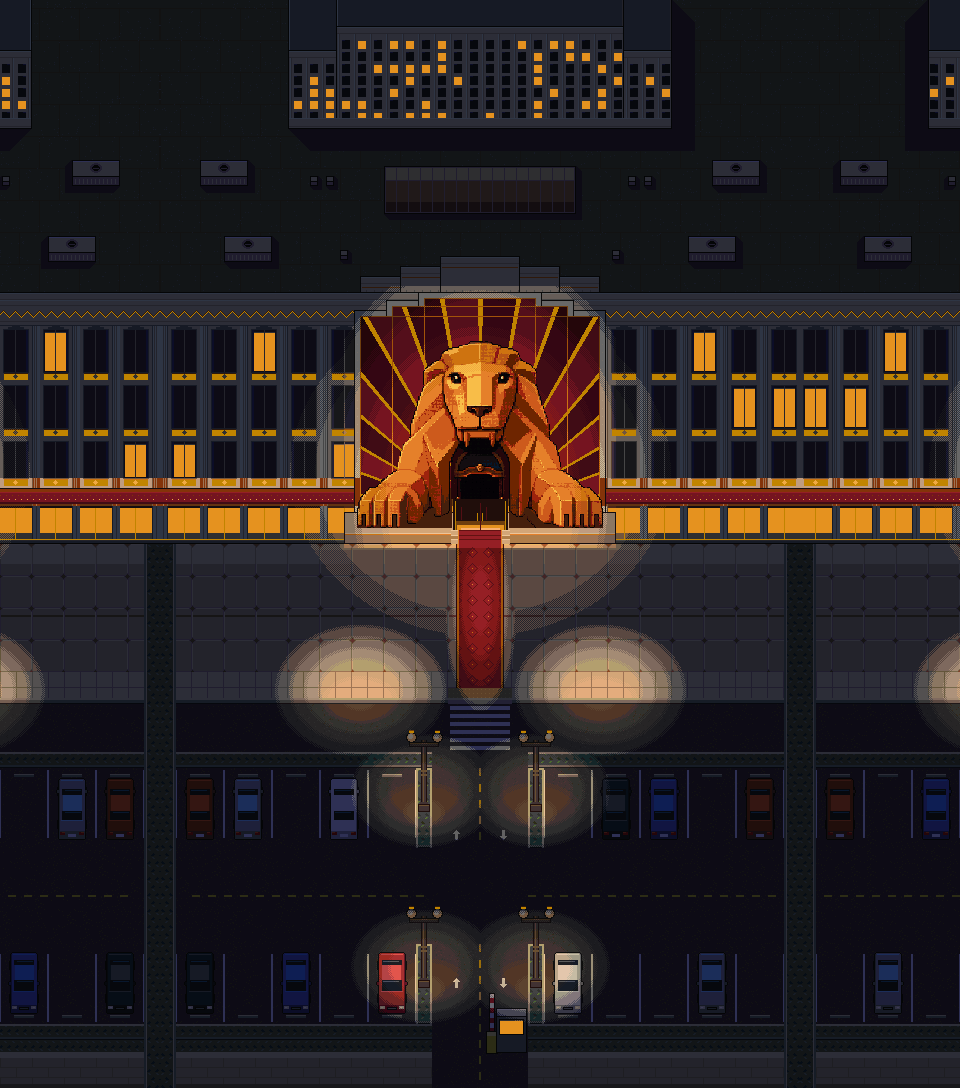
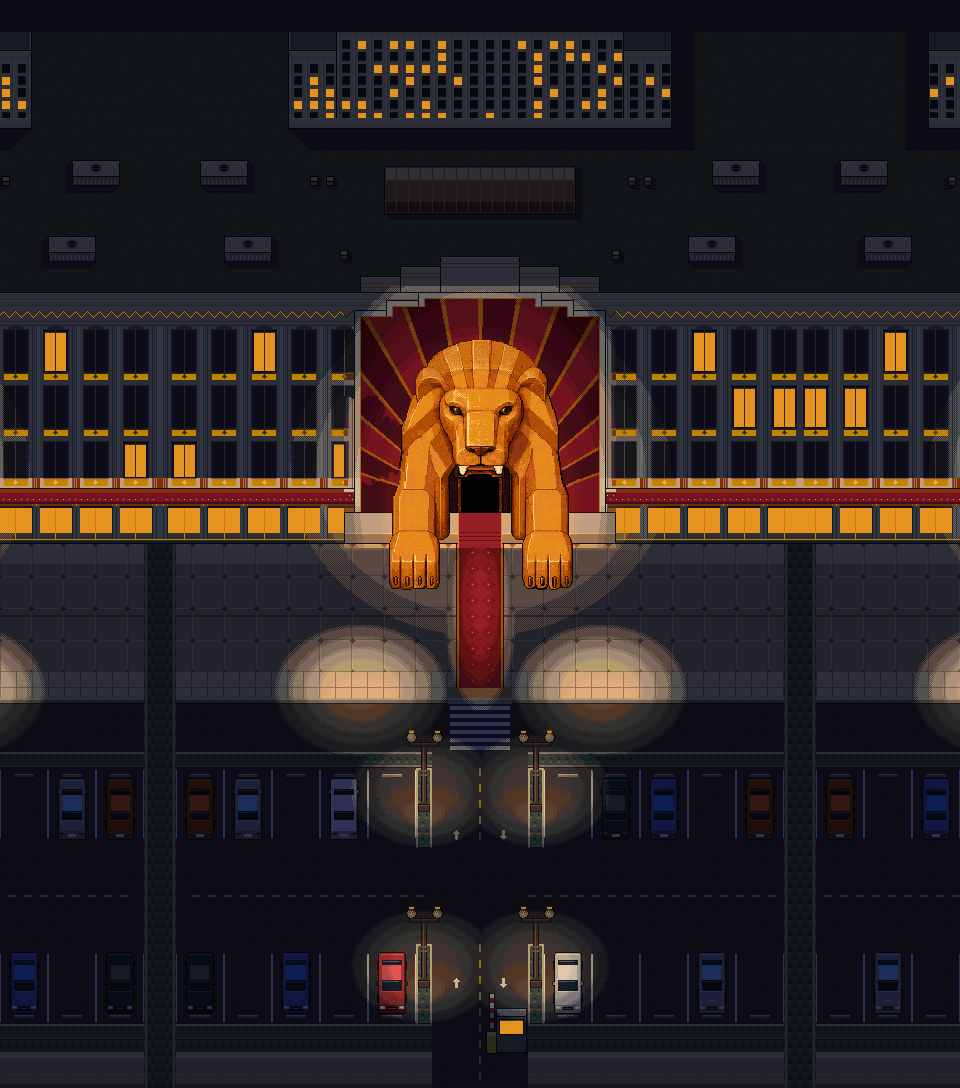
feat: hero con la fachada nueva y el leon de pie de Samuel
El parqueo del juego usa ahora parking_lot_room_deco_manual.tscn: la
fachada pintada a mano por Samuel, con el leon de pie (las patas
delanteras en la acera) y el cartel de Las Vegas dentro del mismo PNG.

- render_parking_layers.gd toma la escena del RoomDefinition del parqueo
  (resources/rooms/parking_lot.tres) en lugar de una ruta fija, asi que
  sigue a la fachada que use el juego.
- build_hero.py: como ya no hay nodos VegasSign ni Pylon, la pasada del
  cartel sale vacia. En ese caso busca parking_vegas_sign_deco.png
  pegado tal cual en la fachada (esta en 13, 303), lo pasa a su capa
  para que conserve el parallax y rellena el hueco: fuera del portal con
  la fachada deco, que es el mismo edificio pixel a pixel; dentro, con el
  reflejo del portal. Las coordenadas de luz del cartel (postes, centro
  de la persecucion de bombillas) se corren con el.
- El leon usa los mismos naranjas que las ventanas: dentro del portal ya
  no se encienden como ventanas, y la marquesina no busca bombillas en
  el portal. Las patas que bajan a la plaza reciben los focos del leon.
  Bombillas del cartel y de la fachada se etiquetan por separado, porque
  el cartel tapa un tramo de la marquesina.
- site.js: la boca del zoom pasa de y 487 a 495, el centro del hueco
  negro de la puerta del leon nuevo (x 301-339, y 478-512).
- Imagenes de redes (og-es, og-en) regeneradas sobre el hero nuevo, con
  el mismo encuadre.

Changed region(s): [[0.3438, 0.2812, 0.6562, 0.5625], [0.3438, 0.0, 0.6562, 0.0312]]

diff --git a/assets/js/site.js b/assets/js/site.js
@@ -36,7 +36,9 @@
 
 		// Coordenadas de arte (pixeles del juego). La capa de fondo es 160 px mas ancha por
 		// cada lado; el resto empieza en x = 0.
-		const ART = { w: 640, h: 1088, margin: 160, mouthX: 320, mouthY: 487, facadeTop: 290 };
+		// La boca es el hueco negro de la puerta, entre los colmillos y la alfombra roja: en el
+		// leon de pie de Samuel va de x 301 a 339 y de y 478 a 512.
+		const ART = { w: 640, h: 1088, margin: 160, mouthX: 320, mouthY: 495, facadeTop: 290 };
 		const base = root.dataset.art || "/assets/img/hero/";
 		const domImg = (cls) => root.querySelector(cls);
 		const layers = {

diff --git a/tools/build_hero.py b/tools/build_hero.py
@@ -12,6 +12,12 @@ resolucion nativa, fondo transparente). Salida en `assets/img/hero/`:
 Todo color de salida se ajusta a `tools/art/master_palette.gpl` del juego: la noche no mete
 colores nuevos, solo elige otros de la misma paleta.
 
+La fachada pintada a mano por Samuel trae el cartel de Las Vegas dentro del mismo PNG (ya no es
+un sprite suelto). Si la capa del cartel llega vacia, se busca el cartel del juego
+(`parking_vegas_sign_deco.png`) pegado en la fachada, se pasa a su capa para que siga teniendo
+parallax, y el hueco que deja se rellena: fuera del portal con la fachada deco, que es el mismo
+edificio; dentro, con el reflejo del portal, que es simetrico.
+
 Uso:
   python tools/build_hero.py <carpeta_capas> <ruta_juego>
 """
@@ -37,6 +43,15 @@ AMBIENT = np.array([0.20, 0.23, 0.40])
 WARM = np.array([1.00, 0.90, 0.74])
 
 BAYER4 = np.array([[0, 8, 2, 10], [12, 4, 14, 6], [3, 11, 1, 9], [15, 7, 13, 5]]) / 16.0
+
+# El cartel de Las Vegas y la fachada deco sin cartel pintado, en el repo del juego.
+SIGN_SPRITE = "assets/sprites/props/parking_vegas_sign_deco.png"
+FACADE_DECO = "assets/sprites/props/casino_entrance_facade_deco.png"
+# Esquina del cartel cuando era un sprite suelto de la escena deco. Las coordenadas de luz del
+# cartel (postes, centro de la persecucion) se midieron ahi y se corren con el cartel.
+SIGN_REF = (0, 262)
+# Columnas del portal de la fachada: dentro esta el leon, fuera las bahias de ventanas.
+PORTAL_X = (184, 456)
 
 
 def load_palette(game: Path) -> np.ndarray:
@@ -116,6 +131,61 @@ def grade(img: np.ndarray, light: np.ndarray, snapper: Snapper) -> np.ndarray:
     return out
 
 
+def find_sprite(layer: np.ndarray, sprite: np.ndarray) -> tuple[int, int] | None:
+    """Esquina donde `sprite` esta pegado tal cual (pixeles opacos identicos) en `layer`."""
+    opaque = sprite[..., 3] > 0
+    ys, xs = np.nonzero(opaque)
+    h, w = sprite.shape[:2]
+    rows, cols = layer.shape[0] - h + 1, layer.shape[1] - w + 1
+    if rows <= 0 or cols <= 0:
+        return None
+    # Criba con una muestra de pixeles; luego se comprueba el sprite entero.
+    hits = np.ones((rows, cols), dtype=bool)
+    for i in np.linspace(0, len(ys) - 1, 96).astype(int):
+        ty, tx = ys[i], xs[i]
+        hits &= np.all(layer[ty:ty + rows, tx:tx + cols] == sprite[ty, tx], axis=-1)
+        if not hits.any():
+            return None
+    for y, x in zip(*np.nonzero(hits)):
+        if np.all(layer[y:y + h, x:x + w][opaque] == sprite[opaque]):
+            return int(x), int(y)
+    return None
+
+
+def split_painted_sign(facade: np.ndarray, game: Path) -> tuple[np.ndarray, np.ndarray, tuple]:
+    """Saca el cartel pintado en la fachada a su propia capa y rellena el hueco.
+
+    Devuelve (fachada sin cartel, cartel, desplazamiento del cartel respecto de `SIGN_REF`).
+    """
+    sprite = np.asarray(Image.open(game / SIGN_SPRITE).convert("RGBA")).astype(np.float64)
+    at = find_sprite(facade, sprite)
+    if at is None:
+        sys.exit("build_hero: la capa del cartel esta vacia y el cartel no aparece en la fachada")
+    x0, y0 = at
+    h, w = sprite.shape[:2]
+    mask = np.zeros(facade.shape[:2], dtype=bool)
+    mask[y0:y0 + h, x0:x0 + w] = sprite[..., 3] > 0
+    sign = np.zeros_like(facade)
+    sign[mask] = facade[mask]
+
+    deco = np.zeros_like(facade)
+    d = np.asarray(Image.open(game / FACADE_DECO).convert("RGBA")).astype(np.float64)
+    d = d[:facade.shape[0], :facade.shape[1]]
+    deco[:d.shape[0], :d.shape[1]] = d
+    # Fuera del portal la deco tiene que ser la misma fachada; si no, el relleno inventaria.
+    wing = ~mask & (facade[..., 3] > 0) & (deco[..., 3] > 0)
+    wing[:, PORTAL_X[0]:PORTAL_X[1]] = False
+    same = np.all(facade[wing] == deco[wing], axis=-1).mean()
+    if same < 0.95:
+        sys.exit(f"build_hero: la fachada deco ya no coincide con la del juego ({same:.0%})")
+    fill = np.where((np.arange(facade.shape[1]) < PORTAL_X[0])[None, :, None],
+                    deco, facade[:, ::-1])
+    back = facade.copy()
+    back[mask] = fill[mask]
+    print(f"  cartel pintado en ({x0}, {y0}): {mask.sum()} px a su capa")
+    return back, sign, (x0 - SIGN_REF[0], y0 - SIGN_REF[1])
+
+
 def save(arr: np.ndarray, name: str) -> None:
     a = np.clip(arr, 0, 255).astype(np.uint8)
     a[a[..., 3] == 0] = 0
@@ -136,6 +206,9 @@ def main() -> None:
     sign = rgba(layers / "parking_sign.png")
     front = rgba(layers / "parking_front.png")
     h, w = ground.shape[:2]
+    sx, sy = 0, 0
+    if sign[..., 3].max() == 0:
+        facade, sign, (sx, sy) = split_painted_sign(facade, game)
 
     back = over(over(ground, lot), facade)
 
@@ -145,6 +218,11 @@ def main() -> None:
     # portal (x 184-456): fuera, un ovalo de luz sobre las ventanas se leia como un error.
     portal = np.zeros((h, w))
     portal[286:548, 184:456] = 1.0
+    # El leon de pie baja las patas a la plaza, por debajo del estrado: los mismos focos las
+    # alumbran, solo a ellas (pixeles de la fachada), no a las baldosas de alrededor.
+    paws = np.zeros((h, w), dtype=bool)
+    paws[548:600, PORTAL_X[0]:PORTAL_X[1]] = facade[548:600, PORTAL_X[0]:PORTAL_X[1], 3] > 0
+    portal[paws] = 1.0
     light = np.maximum(light, portal * np.clip(ellipse(h, w, 320, 500, 190, 260) * 1.8, 0, 1))
     # Derrame suave sobre la piedra de alrededor.
     light = np.maximum(light, ellipse(h, w, 320, 470, 230, 200) * 0.55)
@@ -166,6 +244,8 @@ def main() -> None:
     # La claraboya del tejado (y 150-230) queda apagada: encendida competia con el titulo, que
     # en la web cae justo encima.
     warm_panes[150:230, :] = False
+    # En el portal no hay ventanas: esos naranjas son del leon, que ya alumbran los focos.
+    warm_panes[286:600, PORTAL_X[0]:PORTAL_X[1]] = False
     light_back = light.copy()
     light_back[warm_panes] = 1.0
     # El interior de la boca del leon: negro calido, no azul.
@@ -177,8 +257,8 @@ def main() -> None:
     # --- Cartel ------------------------------------------------------------------------
     sign_light = np.where(sign[..., 3] > 0, 0.9, 0.0)
     # Los postes y el totem no se alumbran solos.
-    sign_light[500:, :] = np.minimum(sign_light[500:, :], 0.45)
-    sign_light[:, 540:] = np.minimum(sign_light[:, 540:], 0.55)
+    sign_light[500 + sy:, :] = np.minimum(sign_light[500 + sy:, :], 0.45)
+    sign_light[:, 540 + sx:] = np.minimum(sign_light[:, 540 + sx:], 0.55)
     night_sign = grade(sign, sign_light, snapper)
 
     # Bombillas: los puntos amarillo claro del borde del cartel.
@@ -194,9 +274,8 @@ def main() -> None:
     sub = back[band_rows]
     bright = (sub[..., :3].sum(-1) > 600) & (sub[..., 3] > 0)
     band_bulbs[band_rows] = bright
-    labels, n = ndimage.label(bulbs | band_bulbs)
-    print(f"  bombillas: {n}")
-    centers = ndimage.center_of_mass(np.ones_like(labels), labels, range(1, n + 1))
+    # La marquesina se corta en el portal: lo claro de ahi es el leon, no bombillas.
+    band_bulbs[:, PORTAL_X[0]:PORTAL_X[1]] = False
 
     # Las bombillas apagadas: ambar oscuro en la capa del cartel y de la fachada.
     off = np.array([132, 51, 9], dtype=np.float64)
@@ -208,17 +287,21 @@ def main() -> None:
     # y sus bombillas tienen que viajar con el.
     on_core = np.array([255, 242, 143])
     on_ring = np.array([255, 162, 20])
+    # Cada grupo se etiqueta por separado: el cartel tapa un tramo de la marquesina y sus
+    # bombillas no se pueden fundir con las de la fachada que quedan detras.
     groups = {"sign": [], "band": []}
-    for i, (cy, cx) in enumerate(centers, start=1):
-        if bulbs[int(round(cy)), int(round(cx))] or (labels == i)[bulbs].any():
-            groups["sign"].append((np.arctan2(cy - 410, cx - 117), i))
-        else:
-            groups["band"].append((cx, i))
+    labeled = {}
+    for g, found in (("sign", bulbs), ("band", band_bulbs)):
+        labeled[g], n = ndimage.label(found)
+        for i, (cy, cx) in enumerate(
+                ndimage.center_of_mass(found, labeled[g], range(1, n + 1)), start=1):
+            key = np.arctan2(cy - (410 + sy), cx - (117 + sx)) if g == "sign" else cx
+            groups[g].append((key, i))
     phases = {g: [np.zeros((h, w, 4)) for _ in range(3)] for g in groups}
     for g, items in groups.items():
         items.sort()
         for rank, (_, label) in enumerate(items):
-            mask = labels == label
+            mask = labeled[g] == label
             ring = ndimage.binary_dilation(mask, iterations=1) & ~mask
             p = phases[g][rank % 3]
             p[ring, :3] = on_ring
